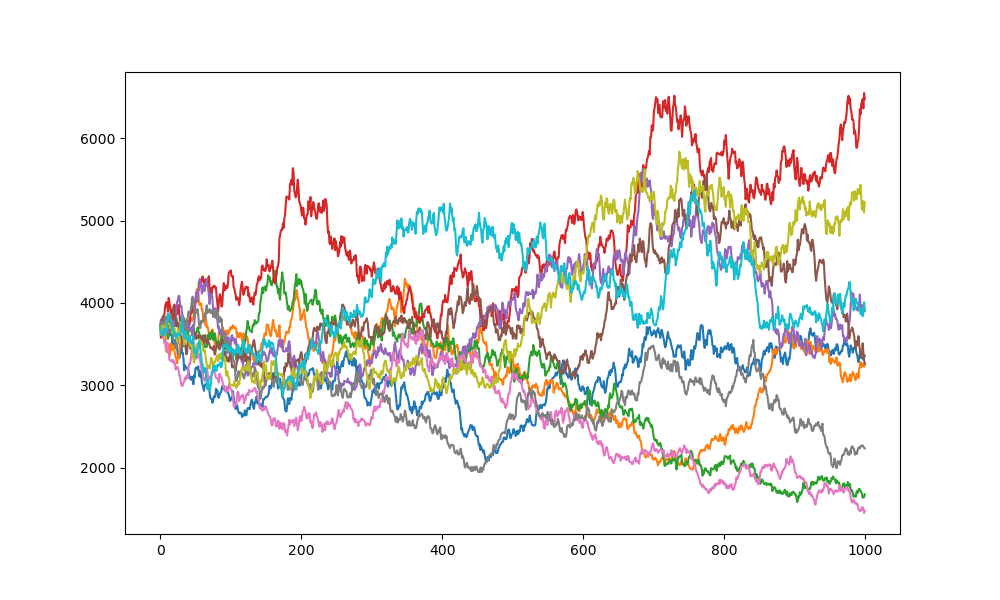
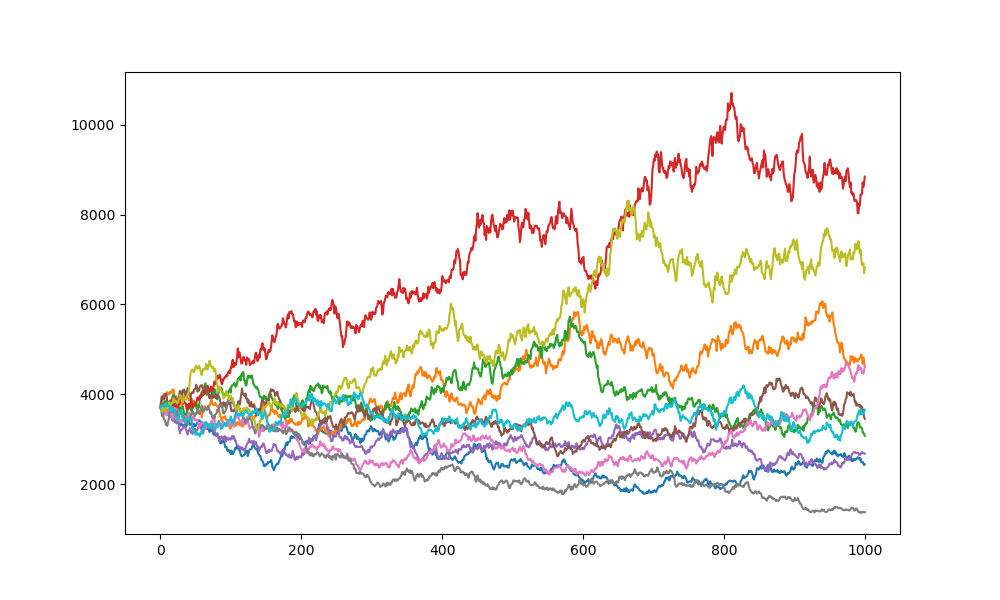
これまでの株価が表示可能になりました

diff --git a/templates/stock_price_prediction_result.html b/templates/stock_price_prediction_result.html
@@ -6,6 +6,9 @@
     </head>
     <body>
         <h2>結果を表示します</h2>
+        <h3>これまでの株価の状態</h3>
+        <p><img src="images/stck_price_status.png" alt="これまでの株価推移グラフ"></p>
+        <h3>モンテカルロシミュレーションによる株価算定の結果を表示します</h3>
         <p><img src="images/stck_price_result.png" alt="株価の予測グラフ"></p>
     </body>
 </html>

diff --git a/app.py b/app.py
@@ -79,7 +79,10 @@ def calc_stock_price():
     data[ticker] = yf.download(ticker,start='2007-1-1')['Adj Close']
     log_returns = np.log(1 + data.pct_change())
     # 現在の株価
-    data.plot(figsize=(10, 6))
+    plt.figure(figsize=(10, 6))
+    plt.plot(data)
+    plt.savefig("./templates/images/stck_price_status.png")
+
     u = log_returns.mean()
     var = log_returns.var()
     drift = u - (0.5 * var)
